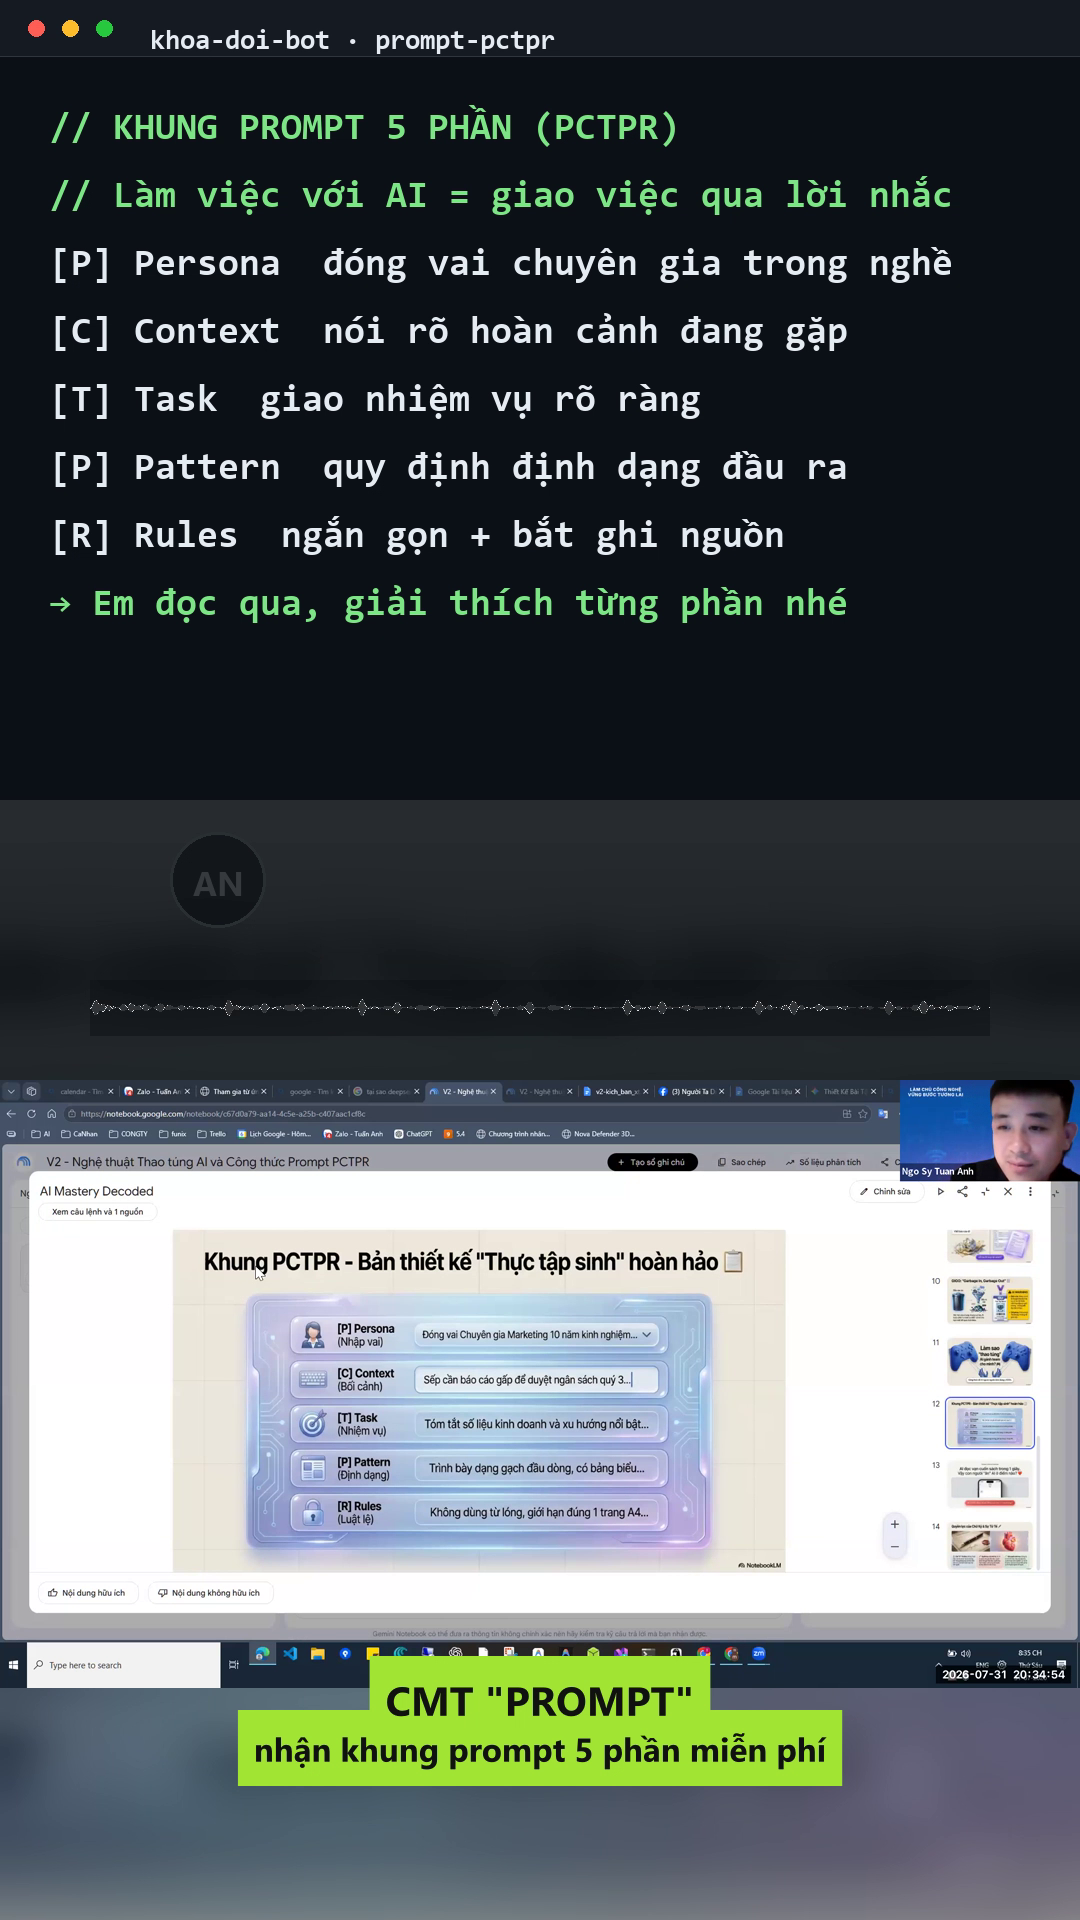
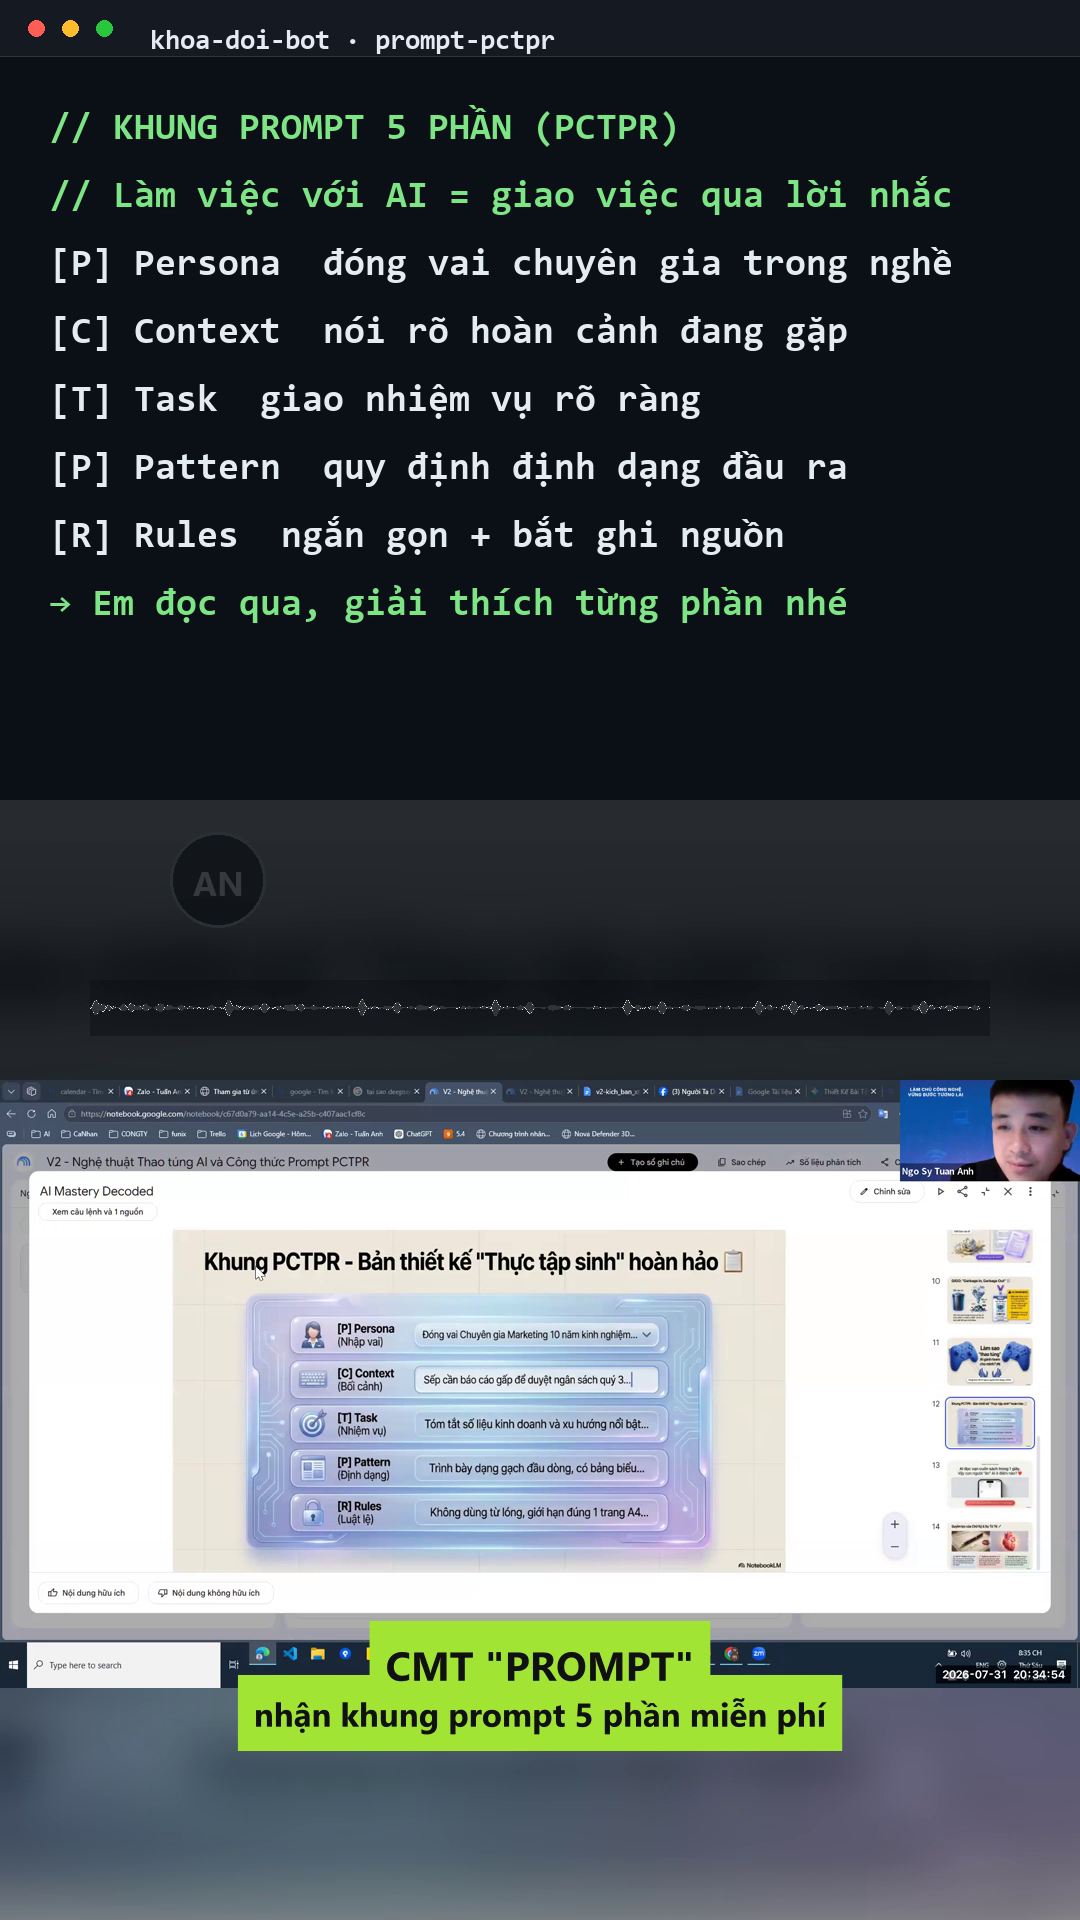
E5 cta_up: diem 93 (best) — CTA tach chrome

Changed region(s): [[0.2139, 0.8438, 0.7944, 0.9375]]

diff --git a/render_code_variant.py b/render_code_variant.py
@@ -127,7 +127,7 @@ ScaledBorderAndShadow: yes
 [V4+ Styles]
 Format: Name, Fontname, Fontsize, PrimaryColour, SecondaryColour, OutlineColour, BackColour, Bold, Italic, Underline, StrikeOut, ScaleX, ScaleY, Spacing, Angle, BorderStyle, Outline, Shadow, Alignment, MarginL, MarginR, MarginV, Encoding
 Style: Pill,Segoe UI,62,&H00FFFFFF,&H00FFFFFF,&H501C1C1C,&H00000000,-1,0,0,0,100,100,0,0,3,14,0,2,70,70,970,1
-Style: CTA,Segoe UI,54,&H00111111,&H00111111,&H0035E6A3,&H00000000,-1,0,0,0,100,100,0,0,3,16,0,2,60,60,150,1
+Style: CTA,Segoe UI,54,&H00111111,&H00111111,&H0035E6A3,&H00000000,-1,0,0,0,100,100,0,0,3,16,0,2,60,60,185,1
 
 [Events]
 Format: Layer, Start, End, Style, Name, MarginL, MarginR, MarginV, Effect, Text

diff --git a/diem/diem_log.md b/diem/diem_log.md
@@ -9,7 +9,8 @@ Metric duy nhất: rubric.md (100 điểm). Best hiện tại ghi đầu bảng.
 | E2 | Ghost lines + highlight dòng đang gõ | 90 | ✔ | 90 |
 | E3 | Waveform đè slide footage (y=1520) | 90 | ✗ discard | 90 |
 | E3b | Waveform vào dải mờ giữa (y=986) | 91 | ✔ | 91 |
-| E4 | Nền đặc #0d1117 dải giữa — hết chữ nhòe | **92** | ✔ best | **92** |
+| E4 | Nền đặc #0d1117 dải giữa — hết chữ nhòe | 92 | ✔ | 92 |
+| E5 | CTA MarginV 185 — hết đè chrome video | **93** | ✔ best | **93** |
 
 ## E0 — Baseline: 86 điểm (tag v0)
 
@@ -59,7 +60,7 @@ Chấm trên diem/E0_baseline/ (ffprobe: 1080x1920, 50.00s — chuẩn).
 
 - E1: badge "AN" tròn bên trái pill + nền pill đặc hơn (so mẫu fb2) — mục 2
 - E3: [ĐANG LÀM] waveform audio thật (showwaves) trước CTA — mục 8
-- E5: [ĐANG LÀM] nhấc CTA lên khỏi chrome video (MarginV 150→185) — mục 5
+- E6: [ĐANG LÀM] gen_timing.py — auto-sync t0 code_lines từ VTT — mục 3, 10
 - E5: CTA nhấp nháy nhẹ \f + viền pill tương phản — mục 5, 8
 - E6: tint viền phân tách 3 tầng, xử dải blur bẩn — mục 7
 - E7: auto-sync code_lines từ cue VTT — mục 3, 10
